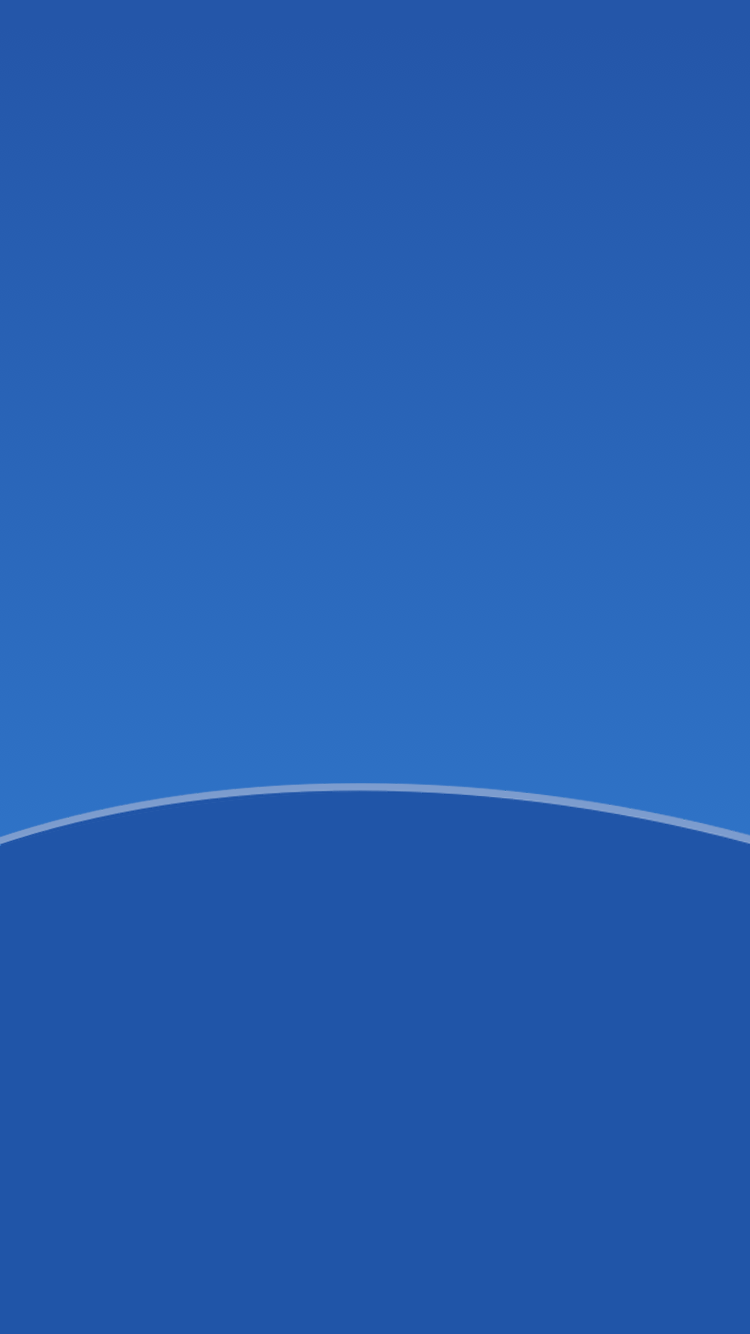
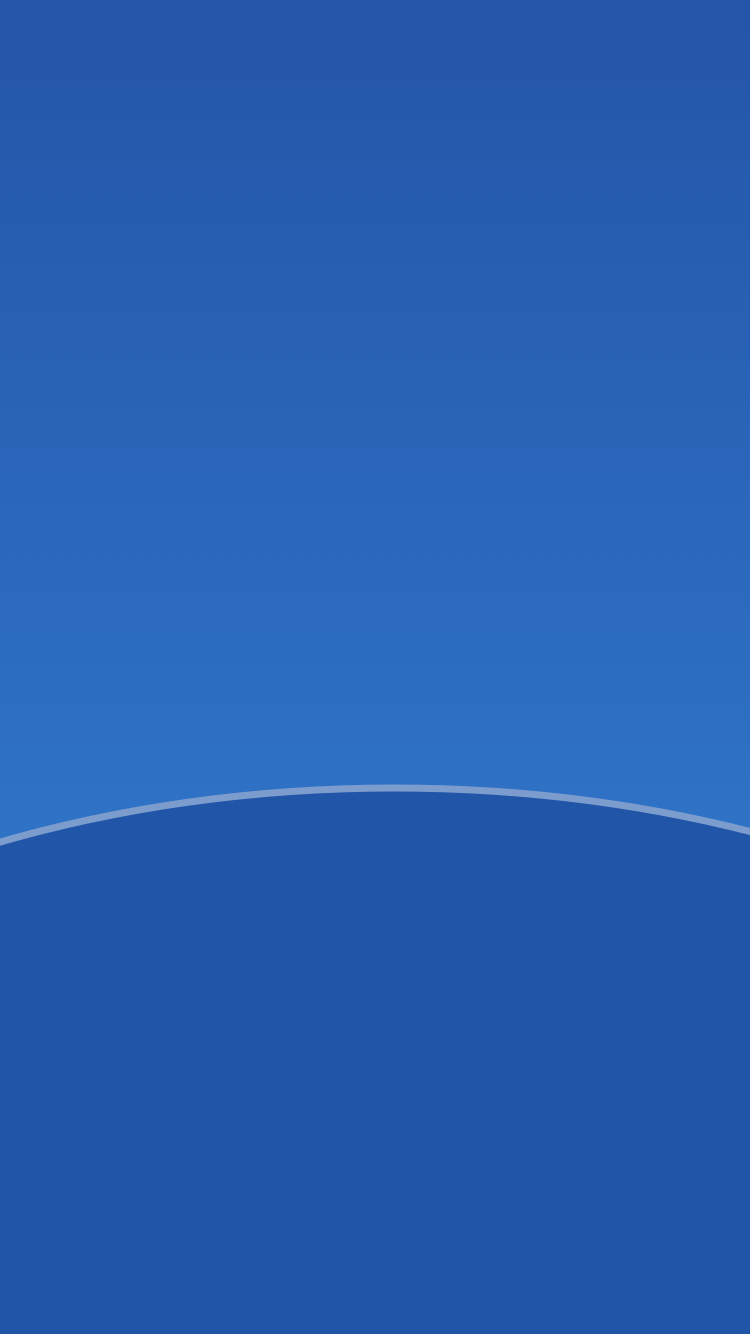
b2c v3.3.1
fixed image ,bg position top not bottom

Changed region(s): [[0.644, 0.584, 1.0, 0.6454], [0.092, 0.584, 0.46, 0.6147], [0.0, 0.6147, 0.092, 0.6454]]

diff --git a/hkhl/b2c.html b/hkhl/b2c.html
@@ -1036,20 +1036,28 @@ a {
 }
 </style>
 <style>
+    .page{
+        background-image: url(../images/b2c/bg1.png);
+
+    }
     .ani-0 .scene-1.start-animate{
         background-image: url(../images/b2c/bg.png);
     }
     .ani-1{
         background-image: url(../images/b2c/bg1.png);
+        background-image: url(../images/b2c/bg2.png);
     }
     .u-guideTop{animation:fadeInRight 1.5s infinite;-webkit-animation: fadeInRight 1.5s infinite;
         bottom: 20px;  backface-visibility: hidden;}
     .stage .bg{
         background-image: url(../images/b2c/bg_circle.png);
+        background-image: url(../images/b2c/bg_circle1.png);
         background-size: cover;
         width: 750px;
         height: 550px;
-        bottom: 0;
+        height: 422px;
+        /*bottom:0;*/
+        top: 784px;
         display: none;
     }
     .scene-1 .stage .bg{display: block}
@@ -2053,6 +2061,7 @@ a {
         -webkit-animation-timing-function: linear;
         -webkit-animation-duration: 0.3s;
         -webkit-animation-delay: 0.8s;
+        -webkit-animation-fill-mode: forwards
     }
     .ani-0 .scene-1.start-animate .window{
         -webkit-animation-name: opacity0Zoom;
@@ -2181,7 +2190,7 @@ a {
             opacity: 1;
         }
         100%{
-            -webkit-transform: translate(0,0) scale(1) rotateX(0);
+            -webkit-transform: translate(0,0) scale(1);
             opacity: 1;
         }
     }
@@ -4623,7 +4632,6 @@ new PreLoad(tasks, {onload: loading});
         num = 0,
         time = 0,
         state = true;
-
     function loadOk(){
         if(state){
             state = false;
